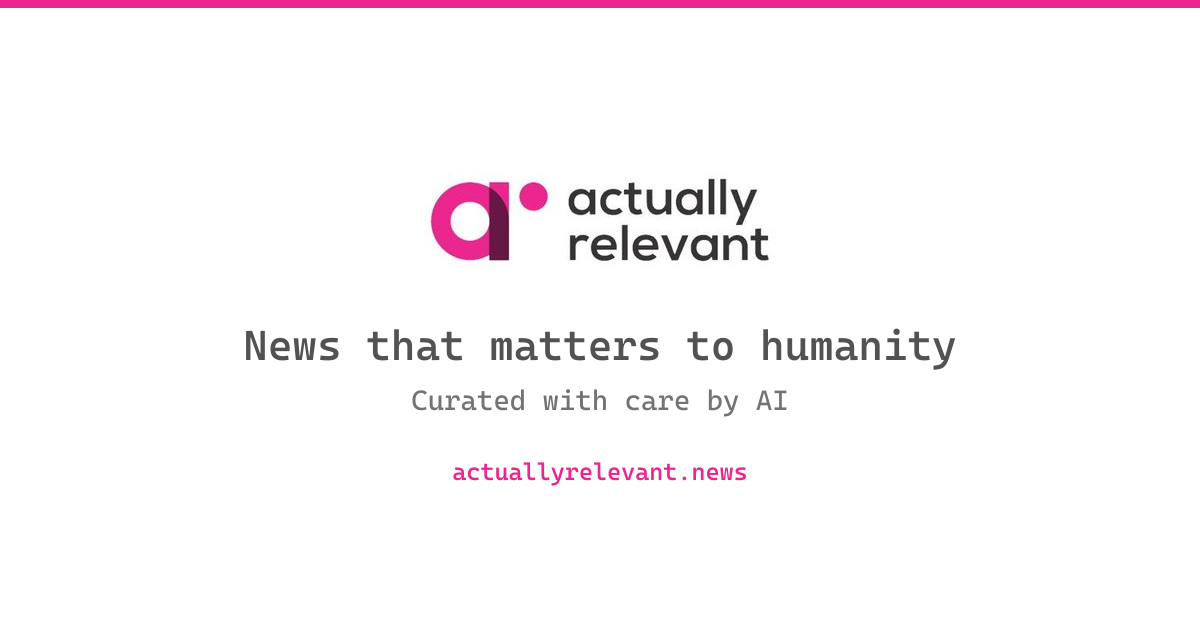
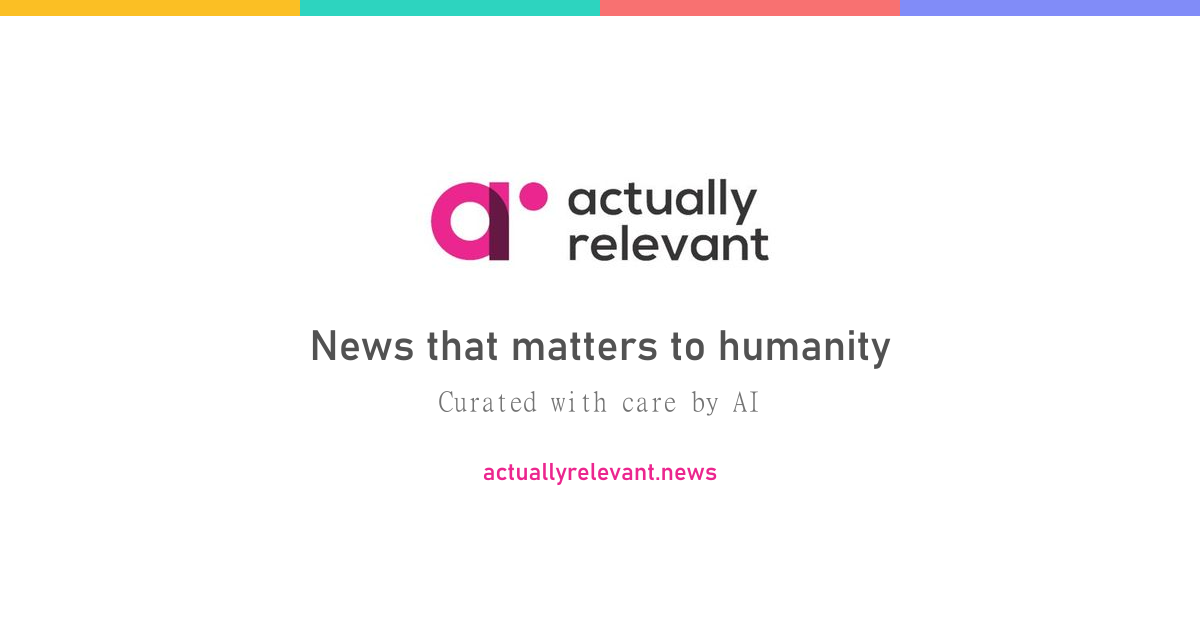
Use issue area colors for og:image top strip
Replace the single brand-pink 8px strip with a 16px strip
split into 4 segments using the issue area colors (amber,
teal, red, indigo).

diff --git a/client/scripts/generate-og-image.ts b/client/scripts/generate-og-image.ts
@@ -67,10 +67,15 @@ async function generateOgImage() {
     </svg>
   `;
 
-  // Color strip at top using brand pink
+  // Color strip at top using the 4 issue area colors
+  const STRIP_HEIGHT = 16;
+  const ISSUE_COLORS = ['#fbbf24', '#2dd4bf', '#f87171', '#818cf8'];
+  const segmentWidth = WIDTH / ISSUE_COLORS.length;
   const topStrip = Buffer.from(
-    `<svg width="${WIDTH}" height="8">
-      <rect width="${WIDTH}" height="8" fill="${BRAND_500}"/>
+    `<svg width="${WIDTH}" height="${STRIP_HEIGHT}">
+      ${ISSUE_COLORS.map((color, i) =>
+        `<rect x="${i * segmentWidth}" width="${segmentWidth}" height="${STRIP_HEIGHT}" fill="${color}"/>`
+      ).join('\n      ')}
     </svg>`
   );
 
